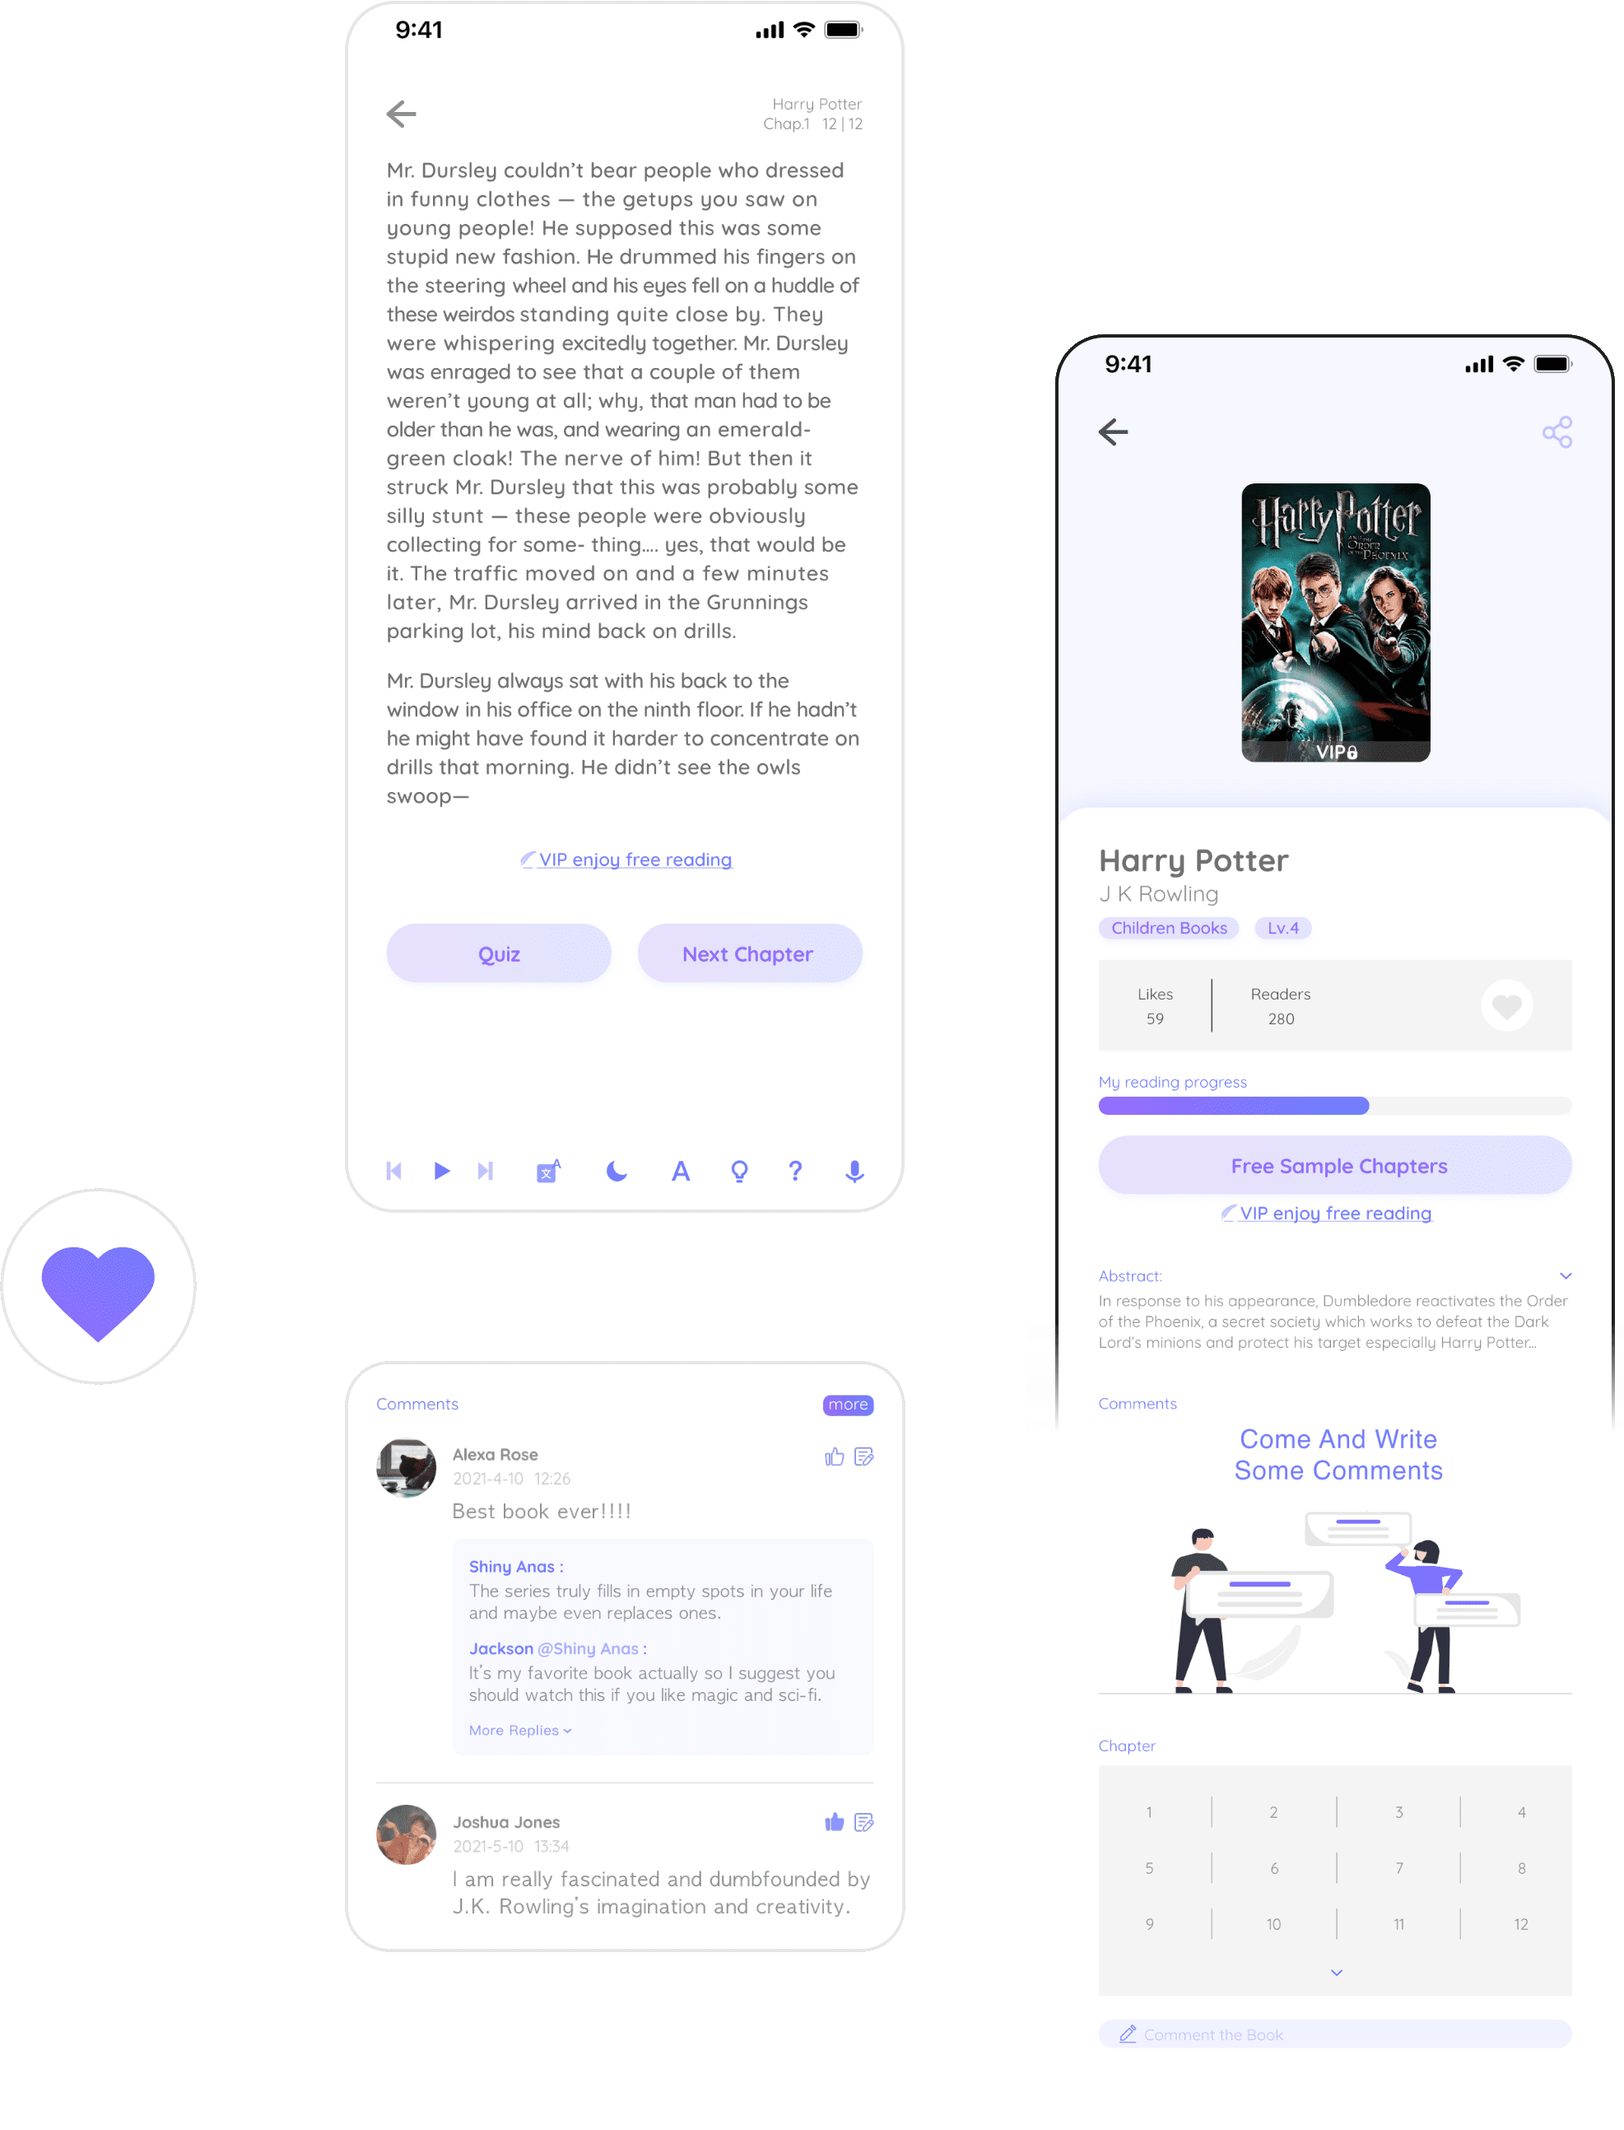
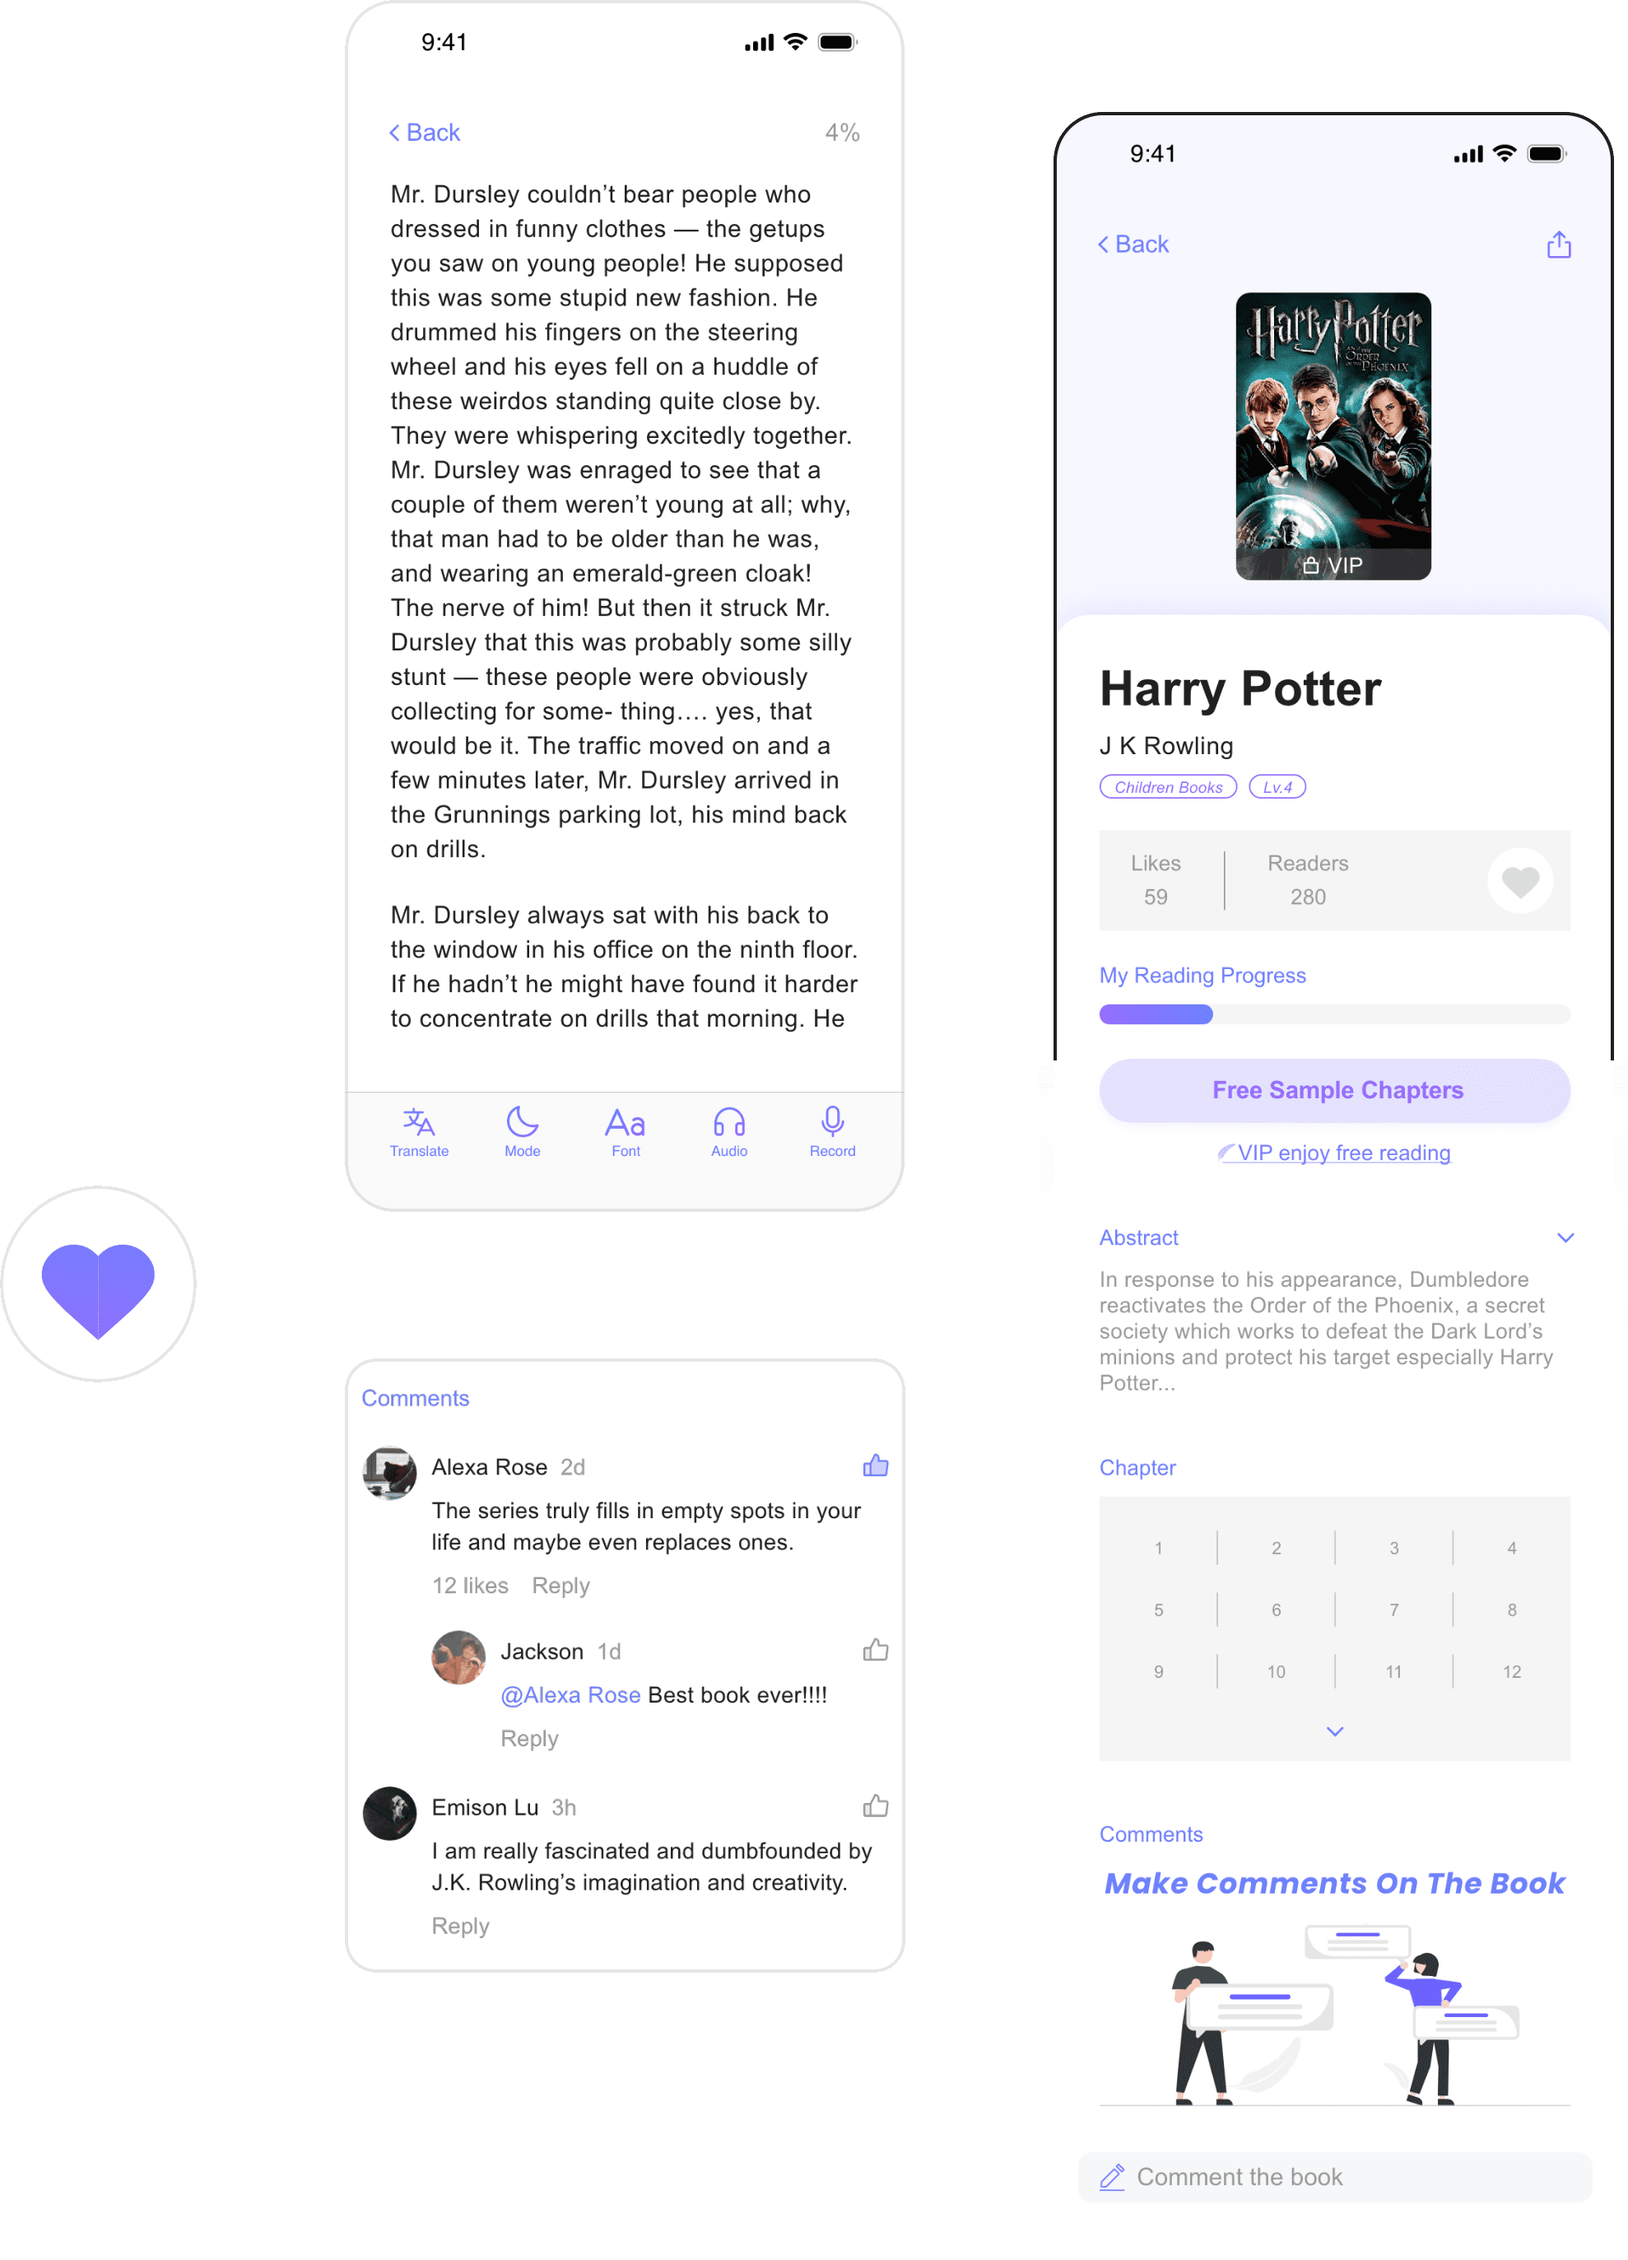
update

diff --git a/iwen.html b/iwen.html
@@ -767,8 +767,16 @@
                 style="margin:53.2px 0 0 198.4px;line-height: 43.2px;width: 362.4px;letter-spacing: -0.1px;">Record
                 your&nbsp;&nbsp;&nbsp;&nbsp;&nbsp;&nbsp;&nbsp;&nbsp;&nbsp;&nbsp;&nbsp;&nbsp;&nbsp; English
                 reading learning</p>
-            <img alt="pic" src="./static/image/iwen/page11_2.png"
-                style="width:1290.0px;margin:206.8px 0 0 200.0px;position: absolute;">
+            <!-- <img alt="pic" src="./static/image/iwen/page11_2.png"
+                style="width:1290.0px;margin:206.8px 0 0 200.0px;position: absolute;"> -->
+            <img alt="pic" src="./static/image/iwen/page11_me.png"
+                style="width:272.0px;margin:207.2px 0 0 200.0px;position: absolute;">
+            <img alt="pic" src="./static/image/iwen/page11_overview.png"
+                style="width:272.0px;margin:207.2px 0 0 540.0px;position: absolute;">
+            <img alt="pic" src="./static/image/iwen/page11_wordbook.png"
+                style="width:272.0px;margin:207.2px 0 0 880.4px;position: absolute;">
+            <img alt="pic" src="./static/image/iwen/page11_wordbook1.png"
+                style="width:272.0px;margin:207.2px 0 0 1221.2px;position: absolute;">
             <div class="font1" style="margin:69.2px 0 0 888.4px;line-height: 20.2px;">The duration of English reading
                 and the number of pages are recorded, thus motivating users to read with acquired words that can be
                 learned repeatedly in the wordbook.
@@ -778,19 +786,19 @@
     <div class="wow animate__fadeInUp" data-wow-duration="1.2s" data-wow-delay="0s" data-wow-offset="100">
         <div id="page11-3">
             <p class="title"
-                style="margin:206.4px 0 0 198.4px;line-height: 43.2px;width: 296.0px;letter-spacing: -0.1px;">
+                style="margin:182.8px 0 0 198.4px;line-height: 43.2px;width: 296.0px;letter-spacing: -0.1px;">
                 Diversification of reading experience</p>
             <img alt="pic" src="./static/image/iwen/page11_3.png"
-                style="width:786px;margin:64.0px 0 0 509.6px;position: absolute;">
-            <div class="font1" style="margin:378.0px 0 0 199.6px;line-height: 20.2px;">Users can enjoy a sense of
+                style="width:791.2px;margin:64.0px 0 0 509.6px;position: absolute;">
+            <div class="font1" style="margin:354.4px 0 0 199.6px;line-height: 20.2px;">Users can enjoy a sense of
                 reading satisfaction and companionship by giving their favorite books a like and seeing how many users
                 have read the book. Users can also interact with other readers in the comment section to gain book
                 friends with the same reading taste.</div>
-            <div class="font1" style="margin:545.6px 0 0 199.6px;line-height: 20.2px;">The reading progress bar is
+            <div class="font1" style="margin:522.0px 0 0 199.6px;line-height: 20.2px;">The reading progress bar is
                 displayed, not only to let users know the reading progress and position, but also to motivate them to
                 finish reading the whole book.</div>
-            <div class="font2" style="margin:348.0px 0 0 200px;">Reading Community</div>
-            <div class="font2" style="margin:515.6px 0 0 200px;">Reading Motivation</div>
+            <div class="font2" style="margin:324.4px 0 0 200px;">Reading Community</div>
+            <div class="font2" style="margin:492.0px 0 0 200px;">Reading Motivation</div>
         </div>
     </div>
     <div class="wow animate__fadeInUp" data-wow-duration="1.2s" data-wow-delay="0s" data-wow-offset="100">

diff --git a/static/css/iwen.css b/static/css/iwen.css
@@ -419,7 +419,7 @@
 
 #page11-3 {
   width: 1494px;
-  height: 1120.0px;
+  height: 1196.0px;
   margin: 0 auto;
   position: relative;
 }
